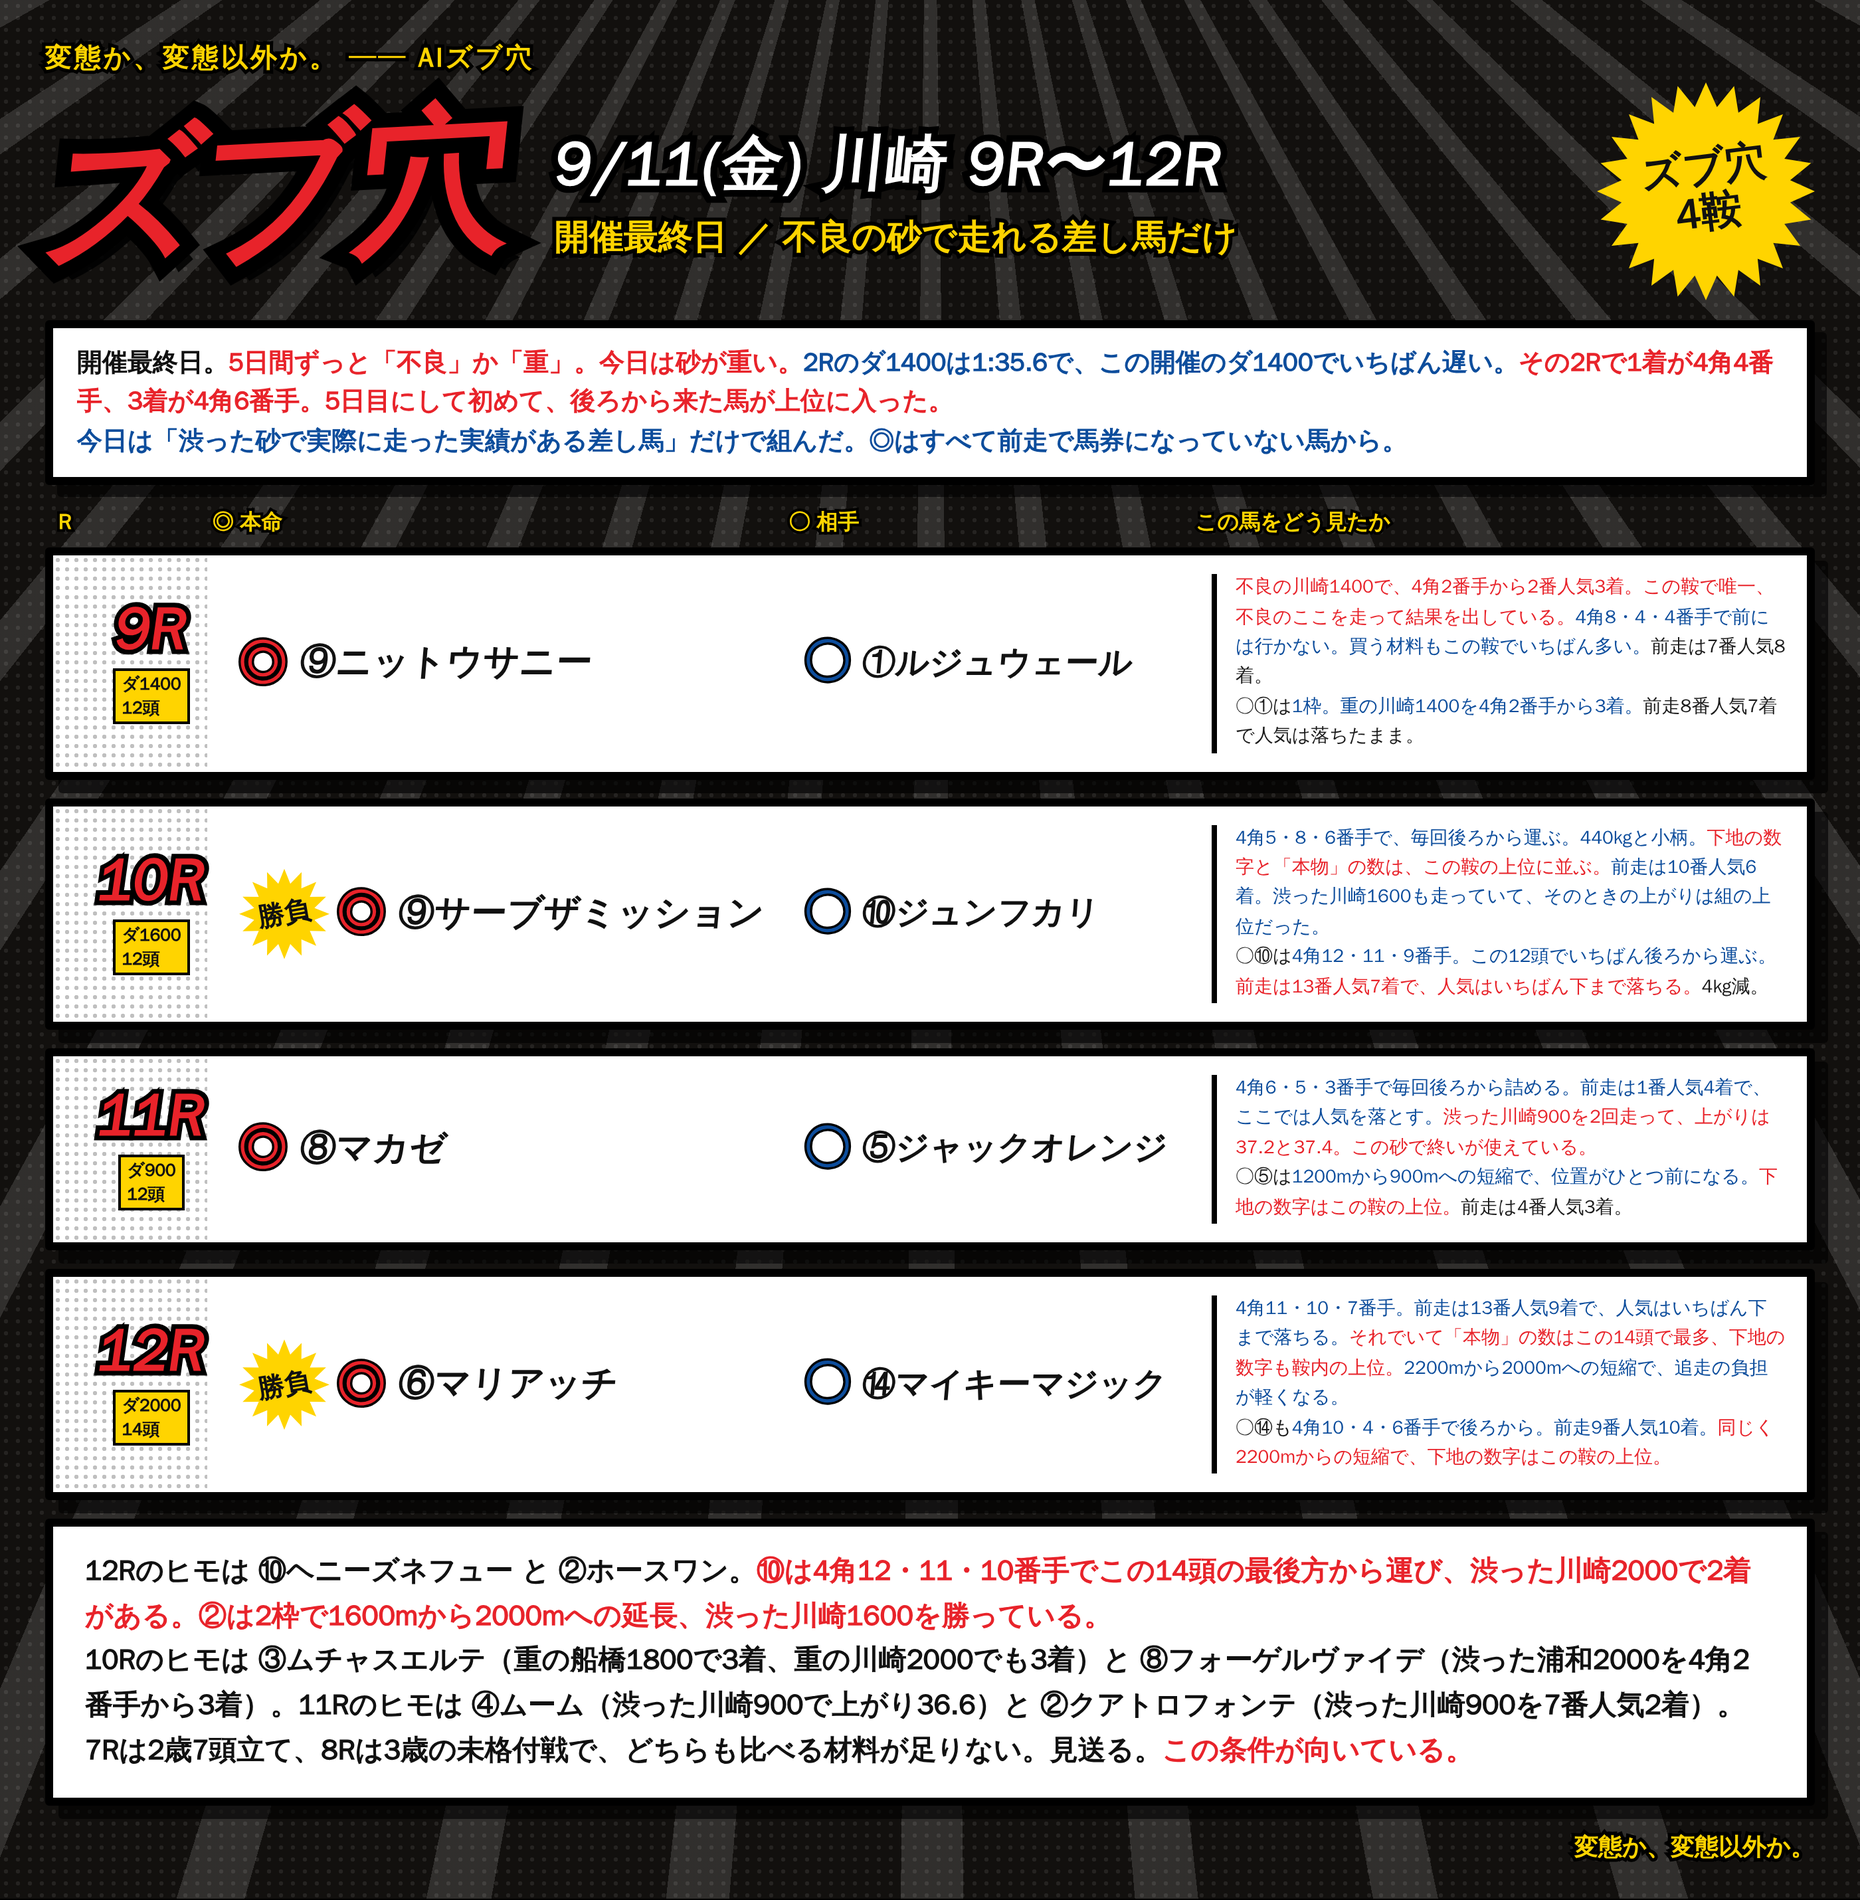
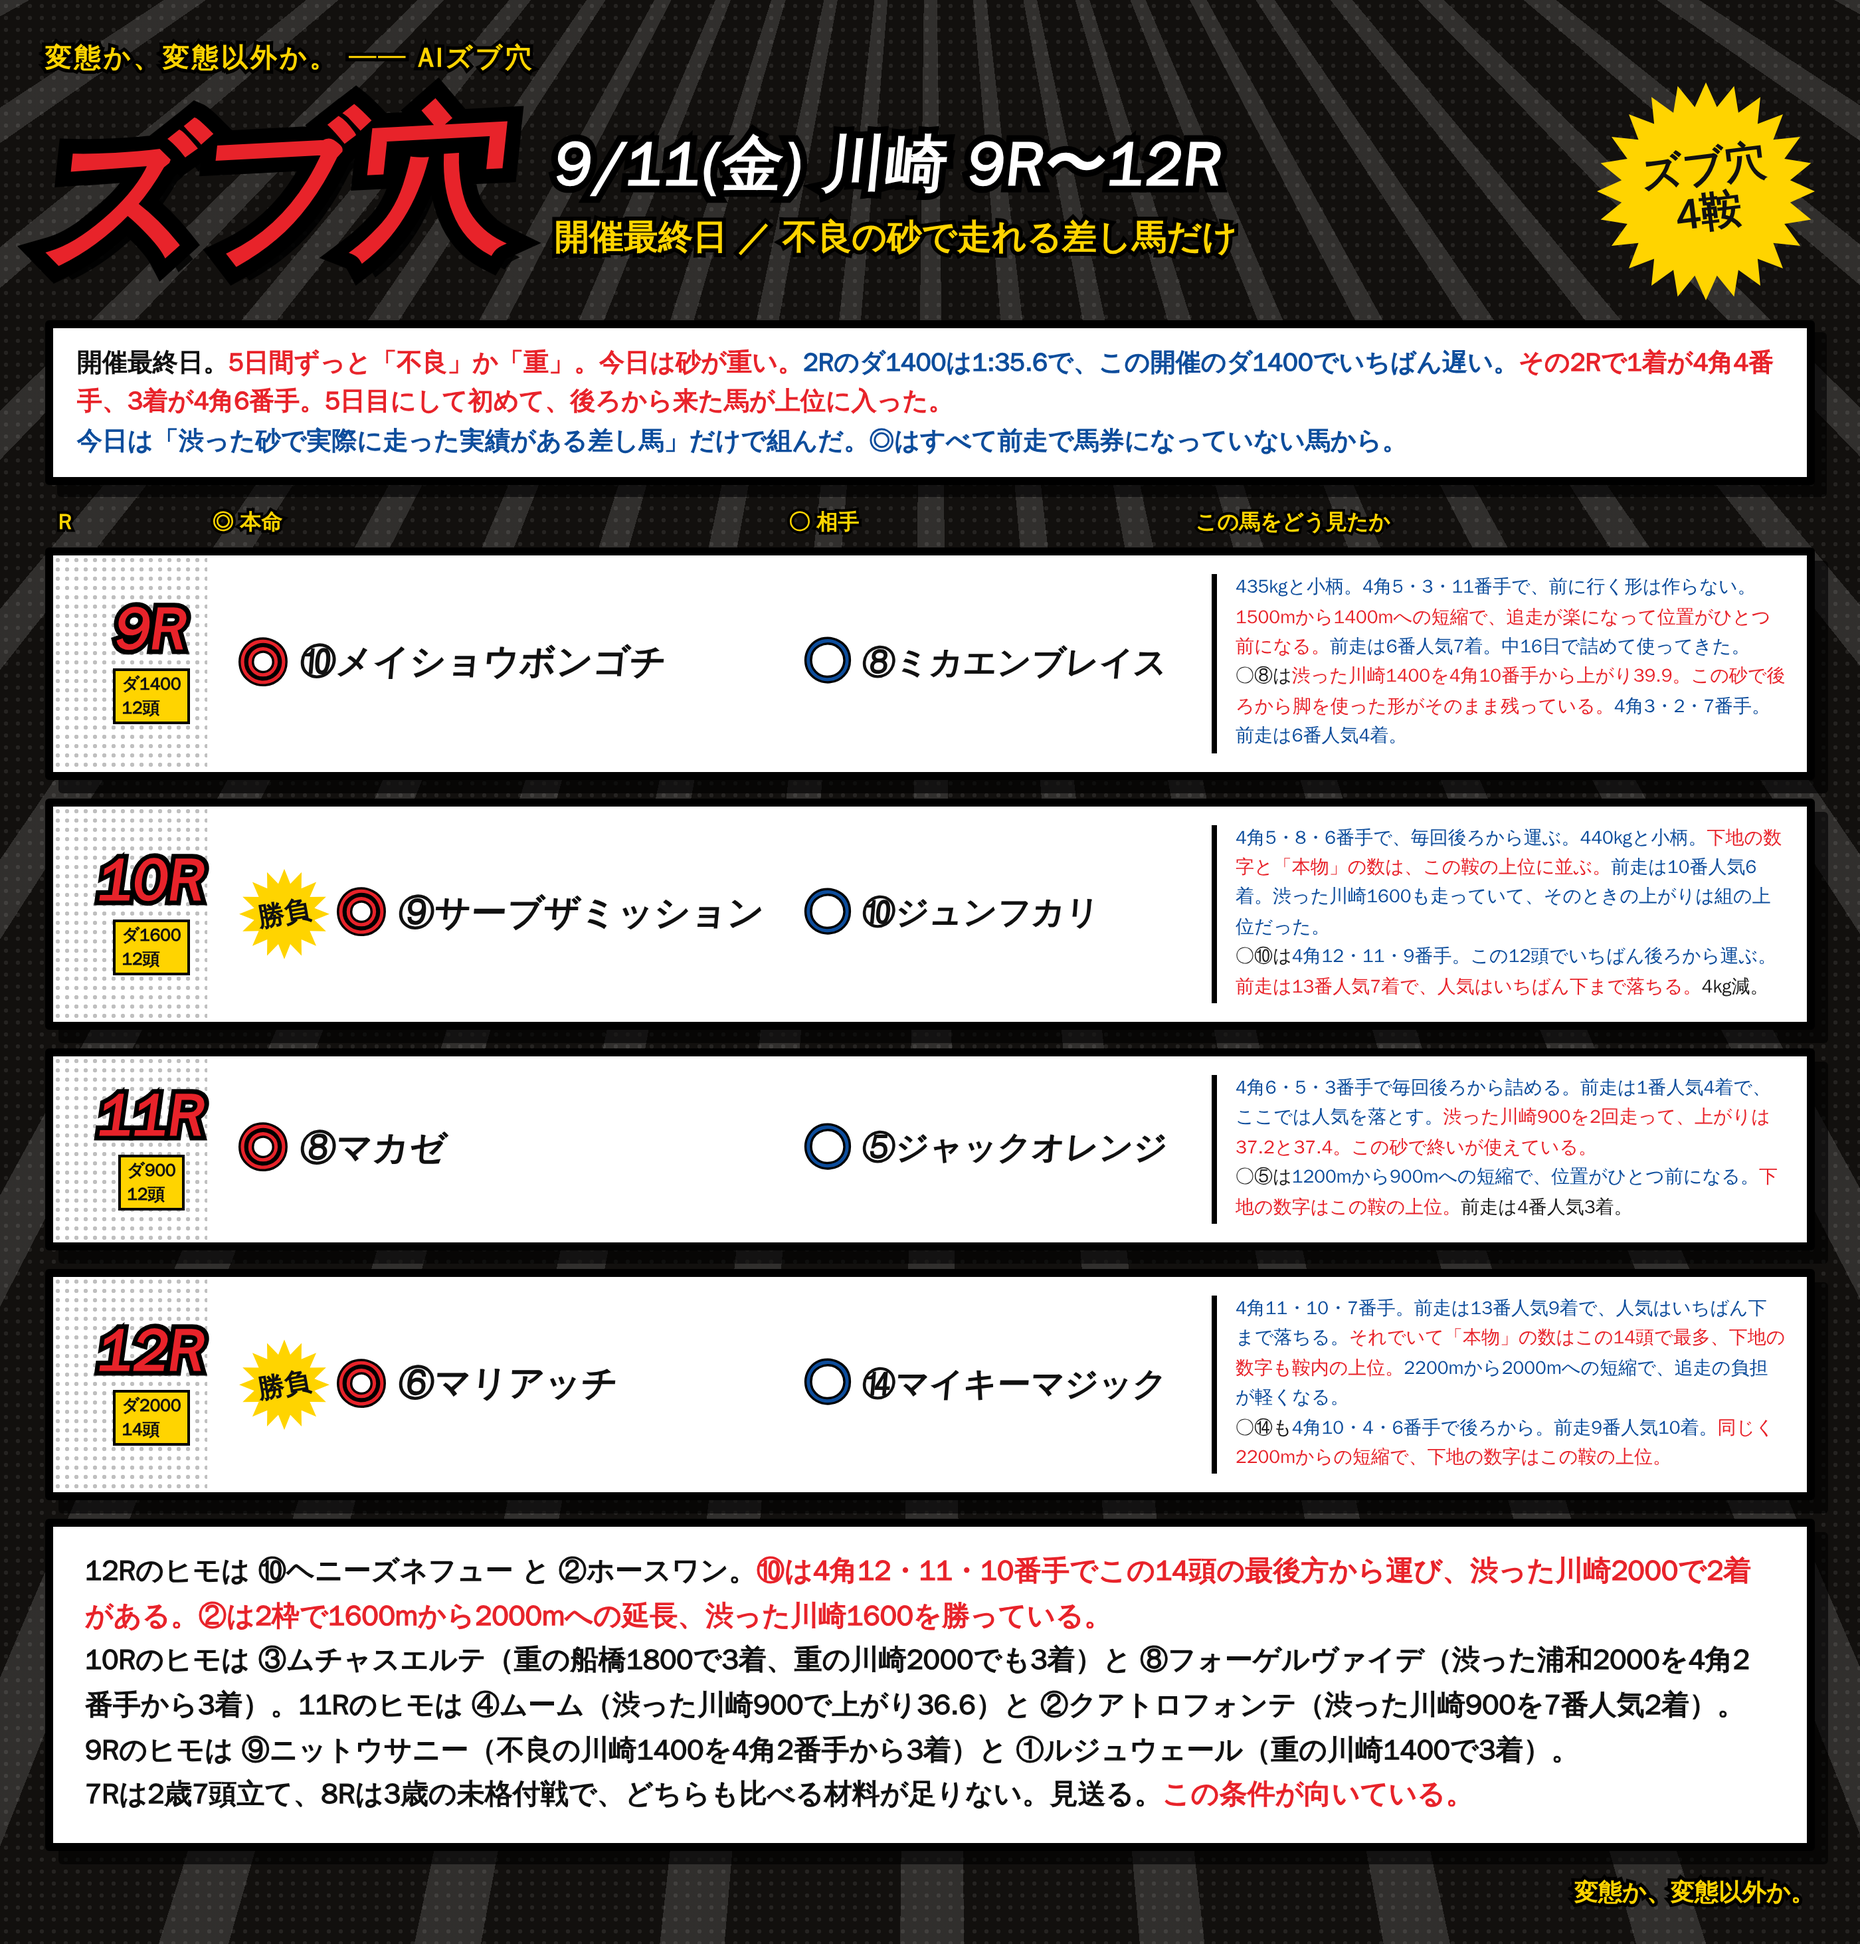
9/11 川崎: 9Rの印を差し替え、カードの馬番表記を修正
Claude-Session: https://claude.ai/code/session_01RoHscZkr96FNaxQWvUqgEw

diff --git a/notes/live/2026-09-11/kw_9_12.html b/notes/live/2026-09-11/kw_9_12.html
@@ -81,10 +81,10 @@
 <div class="head"><div class="gekiga">ズブ穴</div><div class="dateblk"><div class="d1">9/11(金) 川崎 9R〜12R</div><div class="d2">開催最終日 ／ 不良の砂で走れる差し馬だけ</div></div><div class="burst"><span>ズブ穴<br>4鞍</span></div></div>
 <div class="lead">開催最終日。<span class="r">5日間ずっと「不良」か「重」。今日は砂が重い。</span><span class="b">2Rのダ1400は1:35.6で、この開催のダ1400でいちばん遅い。</span><span class="r">その2Rで1着が4角4番手、3着が4角6番手。5日目にして初めて、後ろから来た馬が上位に入った。</span><br><span class="b">今日は「渋った砂で実際に走った実績がある差し馬」だけで組んだ。◎はすべて前走で馬券になっていない馬から。</span></div>
 <div class="cols"><div class="cR">R</div><div class="cH">◎ 本命</div><div class="cA">○ 相手</div><div class="cM">この馬をどう見たか</div></div>
-<div class="row"><div class="corner"></div><div class="rN"><div class="n">9R</div><div class="d">ダ1400<br>12頭</div></div><div class="hm"><span class="mk">◎</span><span class="nm">⑨ニットウサニー</span></div><div class="at"><span class="mk2">○</span><span class="nm2">①ルジュウェール</span></div><div class="memo"><b class="r">不良の川崎1400で、4角2番手から2番人気3着。この鞍で唯一、不良のここを走って結果を出している。</b><b>4角8・4・4番手で前には行かない。買う材料もこの鞍でいちばん多い。</b>前走は7番人気8着。<br>○①は<b>1枠。重の川崎1400を4角2番手から3着。</b>前走8番人気7着で人気は落ちたまま。</div></div>
+<div class="row"><div class="corner"></div><div class="rN"><div class="n">9R</div><div class="d">ダ1400<br>12頭</div></div><div class="hm"><span class="mk">◎</span><span class="nm">⑩メイショウボンゴチ</span></div><div class="at"><span class="mk2">○</span><span class="nm2">⑧ミカエンブレイス</span></div><div class="memo"><b>435kgと小柄。4角5・3・11番手で、前に行く形は作らない。</b><b class="r">1500mから1400mへの短縮で、追走が楽になって位置がひとつ前になる。</b><b>前走は6番人気7着。中16日で詰めて使ってきた。</b><br>○⑧は<b class="r">渋った川崎1400を4角10番手から上がり39.9。この砂で後ろから脚を使った形がそのまま残っている。</b><b>4角3・2・7番手。前走は6番人気4着。</b></div></div>
 <div class="row"><div class="corner"></div><div class="rN"><div class="n">10R</div><div class="d">ダ1600<br>12頭</div></div><div class="hm"><div class="sb"><span>勝負</span></div><span class="mk">◎</span><span class="nm">⑨サーブザミッション</span></div><div class="at"><span class="mk2">○</span><span class="nm2">⑩ジュンフカリ</span></div><div class="memo"><b>4角5・8・6番手で、毎回後ろから運ぶ。440kgと小柄。</b><b class="r">下地の数字と「本物」の数は、この鞍の上位に並ぶ。</b><b>前走は10番人気6着。渋った川崎1600も走っていて、そのときの上がりは組の上位だった。</b><br>○⑩は<b>4角12・11・9番手。この12頭でいちばん後ろから運ぶ。</b><b class="r">前走は13番人気7着で、人気はいちばん下まで落ちる。</b>4kg減。</div></div>
 <div class="row"><div class="corner"></div><div class="rN"><div class="n">11R</div><div class="d">ダ900<br>12頭</div></div><div class="hm"><span class="mk">◎</span><span class="nm">⑧マカゼ</span></div><div class="at"><span class="mk2">○</span><span class="nm2">⑤ジャックオレンジ</span></div><div class="memo"><b>4角6・5・3番手で毎回後ろから詰める。前走は1番人気4着で、ここでは人気を落とす。</b><b class="r">渋った川崎900を2回走って、上がりは37.2と37.4。この砂で終いが使えている。</b><br>○⑤は<b>1200mから900mへの短縮で、位置がひとつ前になる。</b><b class="r">下地の数字はこの鞍の上位。</b>前走は4番人気3着。</div></div>
 <div class="row"><div class="corner"></div><div class="rN"><div class="n">12R</div><div class="d">ダ2000<br>14頭</div></div><div class="hm"><div class="sb"><span>勝負</span></div><span class="mk">◎</span><span class="nm">⑥マリアッチ</span></div><div class="at"><span class="mk2">○</span><span class="nm2">⑭マイキーマジック</span></div><div class="memo"><b>4角11・10・7番手。前走は13番人気9着で、人気はいちばん下まで落ちる。</b><b class="r">それでいて「本物」の数はこの14頭で最多、下地の数字も鞍内の上位。</b><b>2200mから2000mへの短縮で、追走の負担が軽くなる。</b><br>○⑭も<b>4角10・4・6番手で後ろから。前走9番人気10着。</b><b class="r">同じく2200mからの短縮で、下地の数字はこの鞍の上位。</b></div></div>
-<div class="foot"><b>12Rのヒモは ⑩ヘニーズネフュー と ②ホースワン。</b><b class="r">⑩は4角12・11・10番手でこの14頭の最後方から運び、渋った川崎2000で2着がある。②は2枠で1600mから2000mへの延長、渋った川崎1600を勝っている。</b><br><b>10Rのヒモは ③ムチャスエルテ（重の船橋1800で3着、重の川崎2000でも3着）と ⑧フォーゲルヴァイデ（渋った浦和2000を4角2番手から3着）。11Rのヒモは ④ムーム（渋った川崎900で上がり36.6）と ②クアトロフォンテ（渋った川崎900を7番人気2着）。</b><br><b>7Rは2歳7頭立て、8Rは3歳の未格付戦で、どちらも比べる材料が足りない。見送る。</b><b class="r">この条件が向いている。</b></div>
+<div class="foot"><b>12Rのヒモは ⑩ヘニーズネフュー と ②ホースワン。</b><b class="r">⑩は4角12・11・10番手でこの14頭の最後方から運び、渋った川崎2000で2着がある。②は2枠で1600mから2000mへの延長、渋った川崎1600を勝っている。</b><br><b>10Rのヒモは ③ムチャスエルテ（重の船橋1800で3着、重の川崎2000でも3着）と ⑧フォーゲルヴァイデ（渋った浦和2000を4角2番手から3着）。11Rのヒモは ④ムーム（渋った川崎900で上がり36.6）と ②クアトロフォンテ（渋った川崎900を7番人気2着）。9Rのヒモは ⑨ニットウサニー（不良の川崎1400を4角2番手から3着）と ①ルジュウェール（重の川崎1400で3着）。</b><br><b>7Rは2歳7頭立て、8Rは3歳の未格付戦で、どちらも比べる材料が足りない。見送る。</b><b class="r">この条件が向いている。</b></div>
 <div class="sig">変態か、変態以外か。</div>
 </div></div></body></html>

diff --git a/notes/live/2026-09-11/README.md b/notes/live/2026-09-11/README.md
@@ -19,10 +19,12 @@
 
 | R | 条件 | ◎ | 近3走の4角 | 道悪実績 | ○ |
 |---|---|---|---|---|---|
-| 9R | ダ1400 12頭 | **⑨ニットウサニー** | 8・4・4 | **不良の川崎1400で2番人気3着**（4角2番手） | ①ルジュウェール |
+| 9R | ダ1400 12頭 | **⑩メイショウボンゴチ** | 5・3・11 | 稍重の船橋1500で7着・10着 | ⑧ミカエンブレイス |
 | **10R** | ダ1600 12頭 | **⑨サーブザミッション** | 5・8・6 | 重の川崎1600で10番人気7着（上40.6は組の上位） | ⑩ジュンフカリ |
 | 11R | ダ900 12頭 | **⑧マカゼ** | 6・5・3 | **渋った川崎900を2回走って上がり37.2・37.4** | ⑤ジャックオレンジ |
 | **12R** | ダ2000 14頭 | **⑥マリアッチ** | 11・10・7 | 道悪4戦0勝圏（うち3戦は船橋2200/1800） | ⑭マイキーマジック |
+
+**○⑧ミカエンブレイスは、渋った川崎1400を4角10番手から上がり39.9。**今日の砂で後ろから脚を使った形がそのまま残っている1頭。
 
 ### 12Rは切りかけた馬を戻した
 
@@ -39,6 +41,8 @@
 **10Rのヒモ**：③ムチャスエルテ（**重の船橋1800で3着、重の川崎2000でも3着**）、⑧フォーゲルヴァイデ（渋った浦和2000を4角2番手から3着）
 
 **11Rのヒモ**：④ムーム（渋った川崎900で上がり36.6）、②クアトロフォンテ（渋った川崎900を4角3番手から7番人気2着）
+
+**9Rのヒモ**：⑨ニットウサニー（**不良の川崎1400を4角2番手から2番人気3着**）、①ルジュウェール（重の川崎1400で3着）
 
 ### 道悪実績で落とした馬
 
